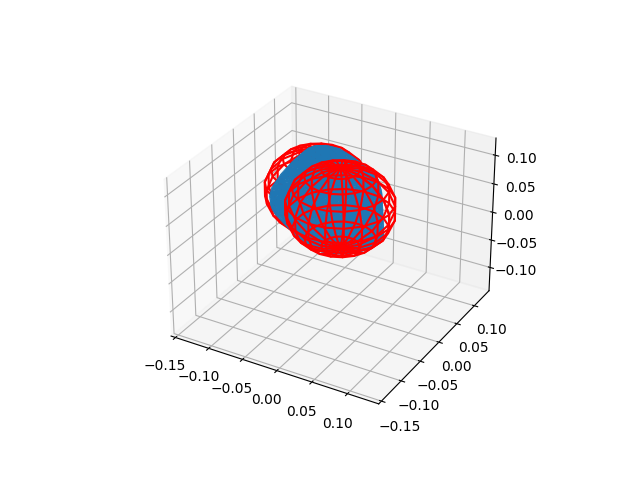
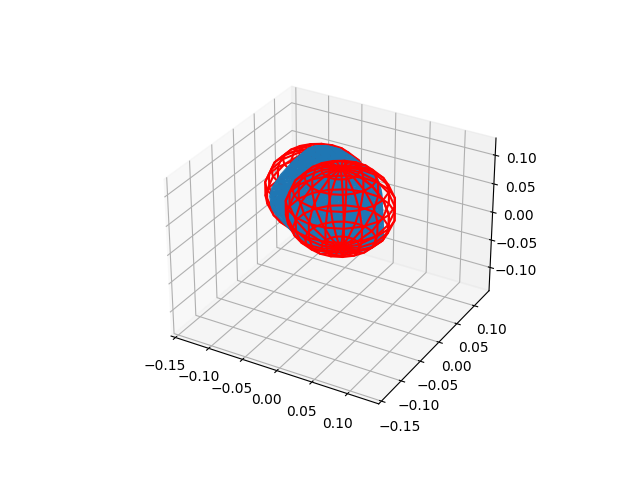
new panda capsules

Changed region(s): [[0.4062, 0.3125, 0.625, 0.5312], [0.4375, 0.3125, 0.4688, 0.3438]]

diff --git a/scripts/capsule_approximation.py b/scripts/capsule_approximation.py
@@ -85,12 +85,13 @@ def lm_penalty_optimal_capsule(vertices: torch.Tensor, nruns=5, vis=None):
     for i in range(nruns):
         try:
             # p1_0 = torch.tensor([0.0, 0.0, -10.0])
-            p1_0 = 0.5 * torch.randn(3)
+            p1_0 = torch.randn(3)
+            p1_0 = 0.2 * p1_0 / torch.norm(p1_0)
             # p2_0 = torch.tensor([0.0, 0.0, 10.0])
             # p2_0 = 0.5 * torch.randn(3)
             p2_0 = -p1_0
             # r_0 = torch.tensor([10])
-            r_0 = 10 * torch.abs(torch.randn(1))
+            r_0 = torch.abs(torch.randn(1))
             x = torch.cat((p1_0, p2_0, r_0), dim=0)
 
             def fg(x, mu, vertices):
@@ -110,8 +111,8 @@ def lm_penalty_optimal_capsule(vertices: torch.Tensor, nruns=5, vis=None):
 
             Jfn = torch.func.jacfwd(fg, argnums=0)
 
-            margin = 1e-2
-            xtol = 1e-3
+            margin = 1e-3
+            xtol = 1e-6
             mu = 0.1
             outer_step = 0
             satisfied = False
@@ -144,7 +145,10 @@ def lm_penalty_optimal_capsule(vertices: torch.Tensor, nruns=5, vis=None):
                     T = np.eye(4)
                     T[:3, 3] = (p1vis + p2vis) / 2
                     v = p2vis - p1vis
-                    v = v / np.linalg.norm(v)
+                    if np.linalg.norm(v) > 1e-6:
+                        v = v / np.linalg.norm(v)
+                    else:
+                        v = np.array([0, 0, 1])
                     vx, vy, vz = v
                     sign = 1 if vz > 0 else -1
                     a = -1 / (sign + vz)
@@ -158,11 +162,11 @@ def lm_penalty_optimal_capsule(vertices: torch.Tensor, nruns=5, vis=None):
 
                     J = Jfn(x, mu, vertices)
                     A = J.t() @ J
-                    lmbd = max(0, torch.min(torch.real(torch.linalg.eigvals(A))).item())
-                    A += (-lmbd + 1e-2) * torch.eye(J.shape[1])
+                    # lmbd = max(0, torch.min(torch.real(torch.linalg.eigvals(A))).item())
+                    A += (1e-6) * torch.eye(J.shape[1])
                     b = -J.t() @ fg(x, mu, vertices)
                     dx = torch.linalg.solve(A, b)
-                    x = x + 1e-3 / mu * dx
+                    x = x + 1e-2 / mu * dx
                     if torch.norm(dx) < xtol:
                         converged = True
                         print(f"Converged in {inner_step} steps")
@@ -176,8 +180,8 @@ def lm_penalty_optimal_capsule(vertices: torch.Tensor, nruns=5, vis=None):
                     maxs = torch.max(vertices, dim=0)[0]
                     x = torch.clamp(
                         x,
-                        min=torch.cat([2 * mins, 2 * mins, torch.tensor([0.01])]),
-                        max=torch.cat([2 * maxs, 2 * maxs, torch.tensor([1])]),
+                        min=torch.cat([mins, mins, torch.tensor([0.01])]),
+                        max=torch.cat([maxs, maxs, torch.tensor([1])]),
                     )
 
                 if torch.all(fg(x, 1, vertices)[1:] <= margin):
@@ -244,19 +248,19 @@ def main():
         vis = meshcat.Visualizer()
         vis.open()
 
-    # outdir = pathlib.Path("jkinpylib/urdfs/panda/capsules")
-    # outdir.mkdir(exist_ok=False)
-    # for stl_path in pathlib.Path("jkinpylib/urdfs/panda/meshes/collision").glob(
-    #     "*.stl"
-    # ):
-    #     stl_to_capsule(stl_path, outdir)
-
-    outdir = pathlib.Path("jkinpylib/urdfs/fetch/capsules")
+    outdir = pathlib.Path("jkinpylib/urdfs/panda/capsules")
     outdir.mkdir(exist_ok=False)
-    for stl_path in pathlib.Path("jkinpylib/urdfs/fetch/meshes").glob(
-        "*_collision.STL"
+    for stl_path in pathlib.Path("jkinpylib/urdfs/panda/meshes/collision").glob(
+        "*.stl"
     ):
         stl_to_capsule(stl_path, outdir, vis)
+
+    # outdir = pathlib.Path("jkinpylib/urdfs/fetch/capsules")
+    # outdir.mkdir(exist_ok=False)
+    # for stl_path in pathlib.Path("jkinpylib/urdfs/fetch/meshes").glob(
+    #     "*_collision.STL"
+    # ):
+    #     stl_to_capsule(stl_path, outdir, vis)
 
 
 if __name__ == "__main__":
